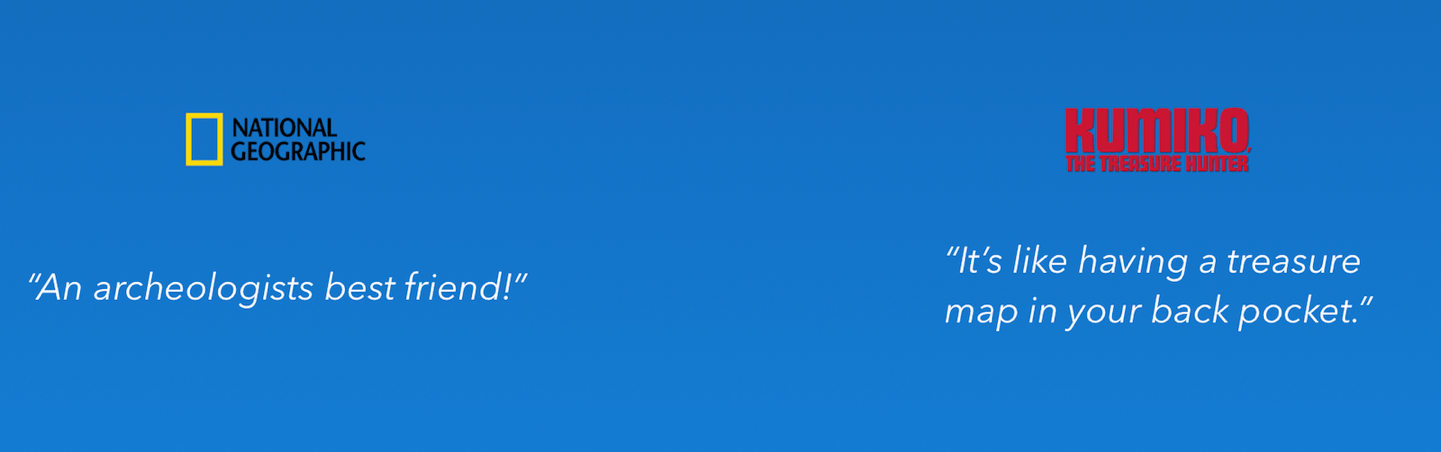
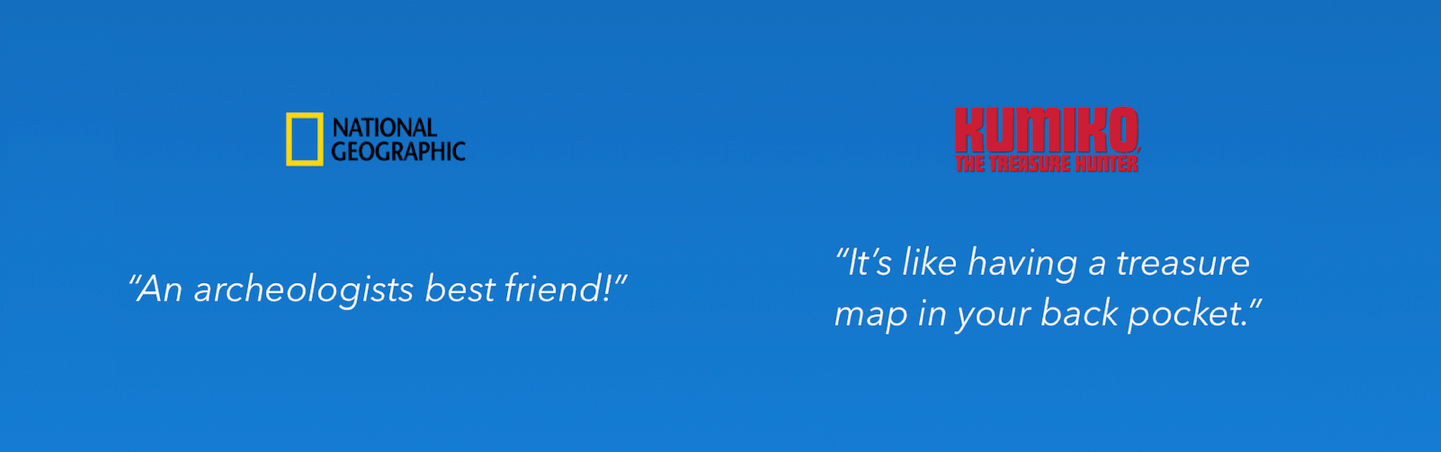
image edits

diff --git a/stylesheets/sass/core.css b/stylesheets/sass/core.css
@@ -1,0 +1,100 @@
+body {
+  height: 1703px;
+  width: 100vw;
+  background-color: lightgray; }
+
+.navBarWrap {
+  width: 100vw;
+  height: 91px;
+  background-color: white;
+  display: flex;
+  justify-content: center; }
+
+.compass {
+  height: 50px;
+  width: 49px;
+  background-image: url("imgs/compass.png");
+  position: absolute;
+  top: 21px;
+  left: 115px; }
+
+.menuButton {
+  width: 128px;
+  height: 91px;
+  background-color: white;
+  text-align: center;
+  display: flex;
+  justify-content: center;
+  align-items: center;
+  font-size: 1.5em;
+  font-family: "Lucida Grande"; }
+
+.exploreButton {
+  width: 200px;
+  height: 50px;
+  background: url("imgs/explore nowBtn.png") no-repeat;
+  position: absolute;
+  top: 21px;
+  left: 1200px; }
+
+.hero {
+  width: 100vw;
+  height: 1612px;
+  background-color: #265286;
+  background-image: linear-gradient(180deg, #265286 12%, #377fd0 50%, #377fd0 100%);
+  z-index: -1; }
+
+.heroPic {
+  width: 100vw;
+  height: 510px;
+  background: url("imgs/underwatertreasure.jpg") no-repeat;
+  position: inherit;
+  top: -200px;
+  display: flex;
+  justify-content: center;
+  align-items: center; }
+
+.header1 {
+  position: absolute;
+  top: 100px;
+  font-size: 2.5em;
+  font-family: "Avenir Next";
+  color: white; }
+
+.buyNowButton {
+  width: 200px;
+  height: 100px;
+  background: url("imgs/buyNow.png") no-repeat;
+  background-size: contain;
+  position: absolute;
+  top: 520px; }
+
+.featureWrap {
+  width: 100vw;
+  height: 510px;
+  background-color: white;
+  display: flex;
+  justify-content: center;
+  text-align: center;
+  background: url("imgs/screenshot.png") no-repeat;
+  background-position: center;
+  background-size: contain; }
+
+.header2 {
+  position: relative;
+  top: 100px;
+  font-size: 2.5em;
+  font-family: "Avenir Next";
+  color: #3166AC;
+  top: 50px; }
+
+.quoteWrap {
+  width: 100vw;
+  height: 510px;
+  display: flex;
+  justify-content: center;
+  text-align: center;
+  background: url("imgs/quotescreen.png") no-repeat;
+  background-position: center;
+  margin: -50px 0 0 0;
+  padding: 100px; }

diff --git a/stylesheets/sass/core.scss b/stylesheets/sass/core.scss
@@ -94,7 +94,9 @@ body {
   text-align: center;
   background:url('imgs/screenshot.png') no-repeat;
   background-position: center;
-  // background-size: cover;
+  // position: relative;
+  // top: 300px;
+  background-size: contain;
   // align-items: center;
 }
 
@@ -117,7 +119,8 @@ body {
   background:url('imgs/quotescreen.png') no-repeat;
   background-position: center;
   margin: -50px 0 0 0;
-  
+  padding: 100px;
+
  // background-size: cover;
   // align-items: center;
 
